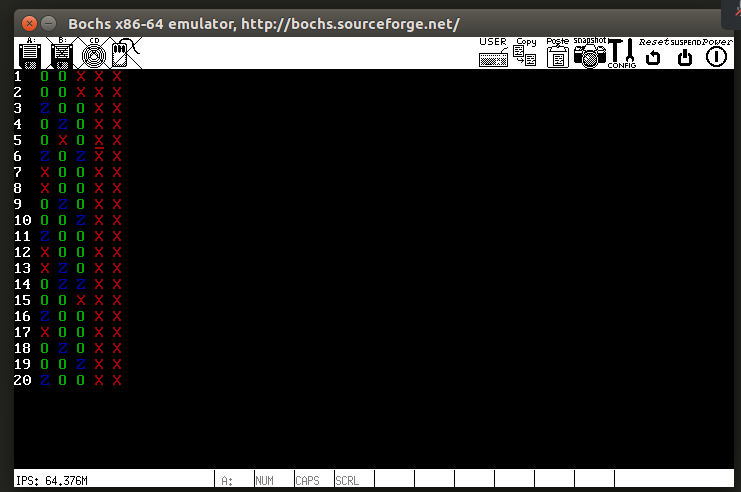
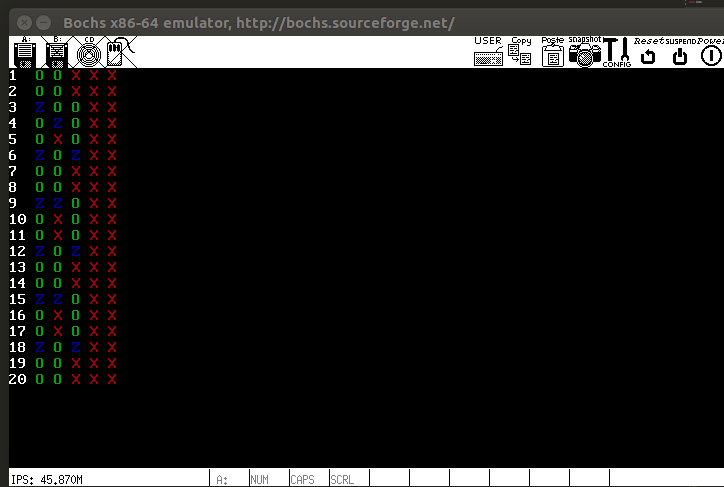
fix bug

Changed region(s): [[0.0, 0.0, 1.0, 1.0]]

diff --git a/lab4/kernel/main.c b/lab4/kernel/main.c
@@ -103,7 +103,7 @@ PUBLIC void cleanScreen() {
 }
 
 void NormalA() {
-	milli_delay(TIME_SLICE);
+	milli_delay(200);
 	int n = 0;
 	while (TRUE) {
 		if (n++ < 20) {
@@ -126,51 +126,62 @@ void NormalA() {
 			}
 			print("\n");
 			milli_delay(TIME_SLICE);
+			// sleep(TIME_SLICE);
 		}
 	}
 }
 
 void ReaderB() {
-	milli_delay(TIME_SLICE);
+	// milli_delay(TIME_SLICE);
 	while (TRUE) {
+		p_proc_ready->status = 0;
 		READER(2);
 		p_proc_ready->status = 2;
-		sleep(TIME_SLICE);
+		// sleep(TIME_SLICE);
+		milli_delay(TIME_SLICE);
 	}
 }
 
 void ReaderC() {
-	milli_delay(TIME_SLICE);
+	// milli_delay(TIME_SLICE);
 	while (TRUE) {
+		p_proc_ready->status = 0;
 		READER(3);
 		p_proc_ready->status = 2;
-		sleep(TIME_SLICE);
+		// sleep(TIME_SLICE);
+		milli_delay(TIME_SLICE * 1);
 	}
 }
 
 void ReaderD() {
-	milli_delay(TIME_SLICE);
+	// milli_delay(TIME_SLICE);
 	while (TRUE) {
+		p_proc_ready->status = 0;
 		READER(3);
 		p_proc_ready->status = 2;
-		sleep(TIME_SLICE);
+		// sleep(TIME_SLICE);
+		milli_delay(TIME_SLICE);
 	}
 }
 
 void WriterE() {
-	milli_delay(TIME_SLICE);
+	// milli_delay(TIME_SLICE);
 	while (TRUE) {
+		p_proc_ready->status = 0;
 		WRITER(3);
 		p_proc_ready->status = 2;
-		sleep(TIME_SLICE);
+		// sleep(TIME_SLICE);
+		milli_delay(TIME_SLICE);
 	}
 }
 
 void WriterF() {
-	milli_delay(TIME_SLICE);
+	// milli_delay(TIME_SLICE);
 	while (TRUE) {
+		p_proc_ready->status = 0;
 		WRITER(4);
 		p_proc_ready->status = 2;
-		sleep(TIME_SLICE);
+		// sleep(TIME_SLICE);
+		milli_delay(TIME_SLICE);
 	}
 }

diff --git a/lab4/kernel/proc.c b/lab4/kernel/proc.c
@@ -33,8 +33,14 @@ PUBLIC void schedule()
 		}
 	}
 
+	// for (p = proc_table; p < proc_table + NR_TASKS; p++) {
+	// 	if (p->wake_tick > 0) {
+	// 		p->wake_tick--;
+	// 	}
+	// }
+
 	// while (!greatest_ticks) {
-	// 	for (p = proc_table; p < proc_table+NR_TASKS; p++) {
+	// 	for (p = proc_table; p < proc_table + NR_TASKS; p++) {
 	// 		if (p_proc_ready->wake_tick > current_tick || p->isBlocked == TRUE) {
 	// 			continue;
 	// 		}
@@ -68,6 +74,7 @@ PUBLIC int sys_get_ticks()
  *======================================================================*/
 PUBLIC int sys_sleep(int milli_seconds) {
 	p_proc_ready->wake_tick = get_ticks() + (milli_seconds / (1000 / HZ));
+	// p_proc_ready->wake_tick = milli_seconds / (1000 / HZ);
 	schedule();
 }
 
@@ -239,9 +246,9 @@ void READER_wf(int time_slice)
 void WRITER_wf(int time_slice)
 {
 	P(&mutex_writerNum);
-	writerNum++;
-	if (writerNum == 1)
+	if (writerNum == 0)
 		P(&readBlock); // 有写者，则禁止读
+	writerNum++;
 	V(&mutex_writerNum);
 
 	// 开始写
@@ -250,6 +257,7 @@ void WRITER_wf(int time_slice)
 	p_proc_ready->status = 1;
 	sleep(time_slice * TIME_SLICE);
 
+	V(&writeBlock);
 	// 完成写
 	P(&mutex_writerNum);
 	writerNum--;
@@ -257,7 +265,6 @@ void WRITER_wf(int time_slice)
 		V(&readBlock); // 无写者，可读
 	V(&mutex_writerNum);
 
-	V(&writeBlock);
 }
 
 /*======================================================================*

diff --git a/lab4/include/const.h b/lab4/include/const.h
@@ -82,6 +82,6 @@
 #define MAX_READERS     2   /* 可同时读的数量 */
 #define STRATEGY        0   /* 读优先--0  写优先--1  读写公平--2 */
 
-#define TIME_SLICE      5000 /* 一个时间片长度 */
+#define TIME_SLICE      1000 /* 一个时间片长度 */
 
 #endif /* _ORANGES_CONST_H_ */
